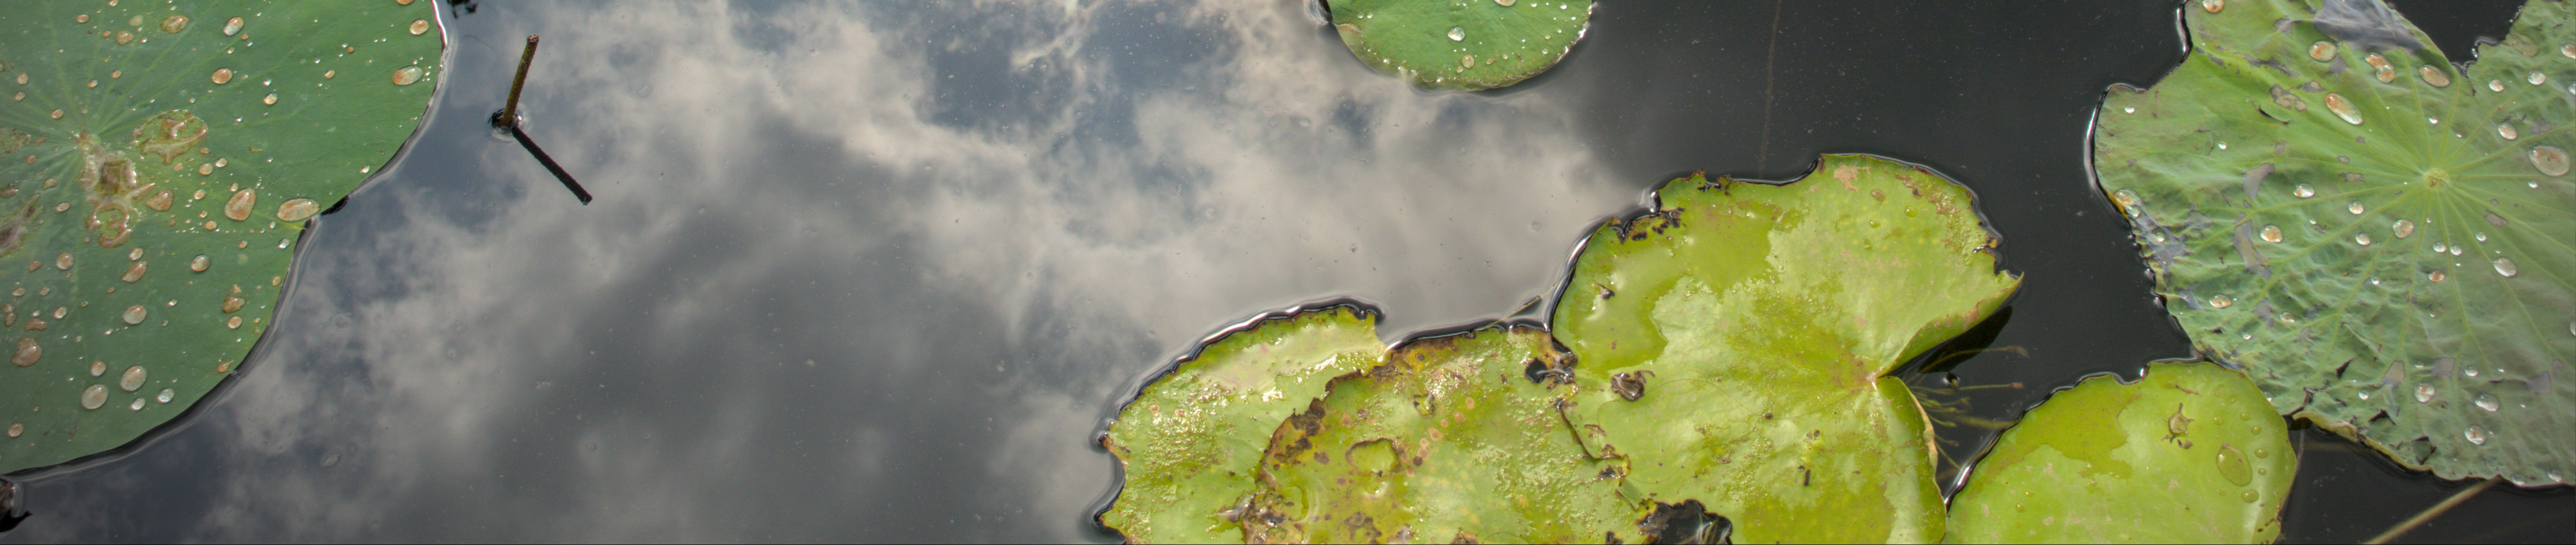
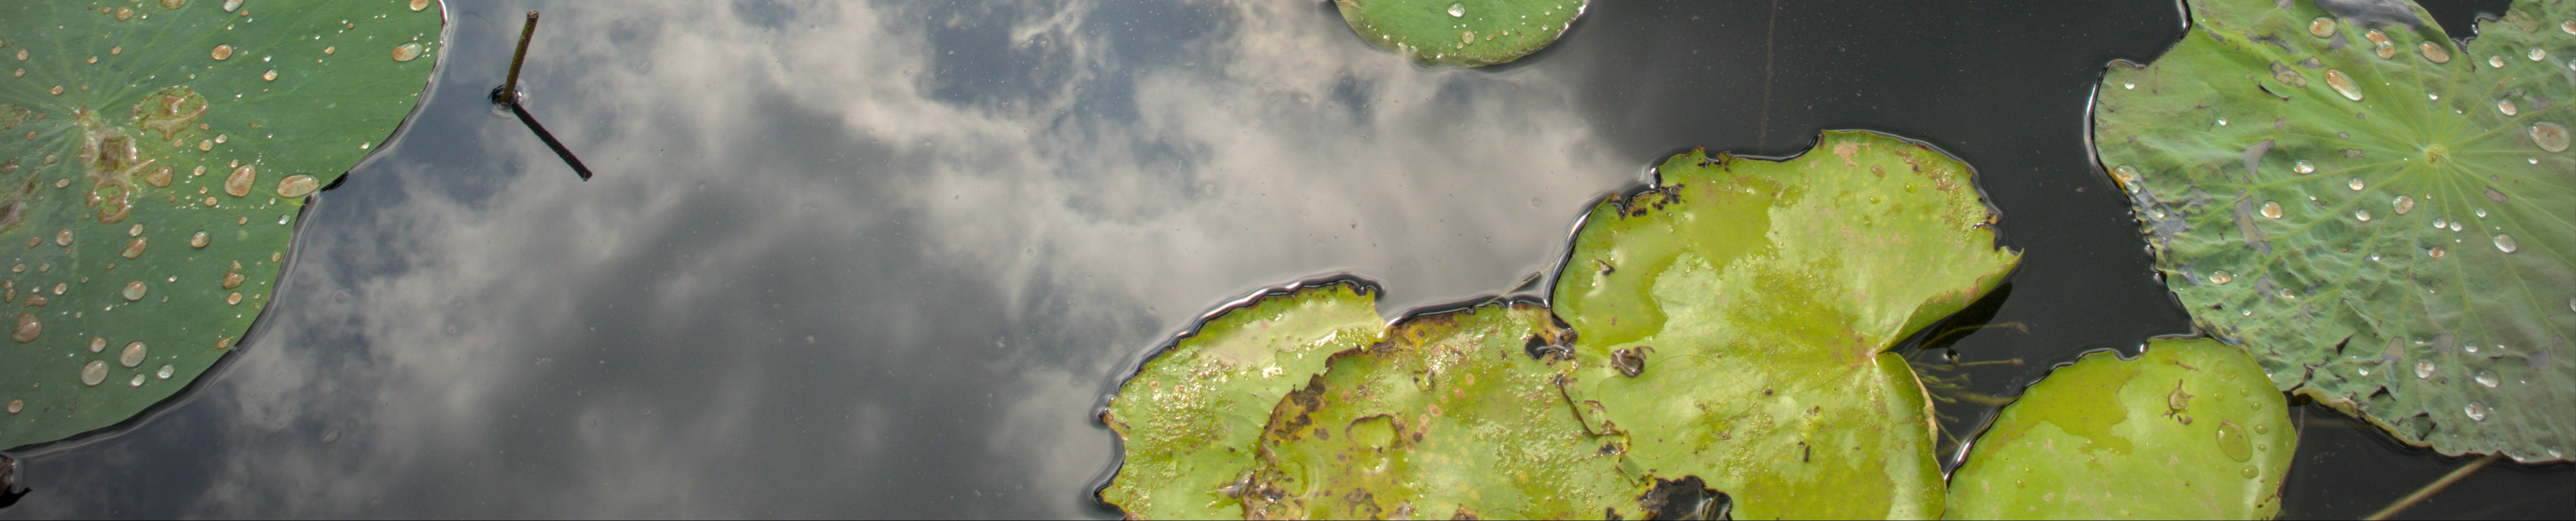
Update: contact box and about page

diff --git a/contact.html b/contact.html
@@ -7,14 +7,34 @@
     <link rel="stylesheet" href="styles.css">
     <link href="https://fonts.googleapis.com/css2?family=Work+Sans:wght@400;700&display=swap" rel="stylesheet">
     <style>
+        .contact-page-wrapper {
+            display: flex;
+            gap: 10px;
+            max-width: 1000px;
+            /*margin: 2rem auto;*/
+            max-width: 100%;
+            padding: 0 20px;
+        }
 
-        .contact-container {
-            max-width: 600px;
-            margin: 2rem auto;
+        .contact-photo {
+            flex: 1;
+            max-width: 450px;
+        }
+
+        .contact-photo img {
+            width: 100%;
+            height: auto;
+            border-radius: 0;
+            object-fit: cover;
+            display: block;
+        }
+
+         .contact-container {
+            flex: 1;
+            max-width: none;
+            width: 100%;
             padding: 2rem;
-            background-color: #f9f9f9;
-            border-radius: 8px;
-            box-shadow: 0 2px 10px rgba(0, 0, 0, 0.1);
+            background-color: rgba(199, 219, 191, 0.42);
         }
 
         .contact-form {
@@ -36,6 +56,7 @@
             border: 1px solid #ccc;
             border-radius: 4px;
             font-family: 'Work Sans', sans-serif;
+            box-sizing: border-box; /* Ensures padding doesn't break the layout */
         }
 
         .contact-form textarea {
@@ -44,7 +65,7 @@
         }
 
         .contact-form button {
-            background-color: #91bb86;
+            background-color: #75B071;
             color: white;
             border: none;
             padding: 0.75rem 1.5rem;
@@ -58,16 +79,32 @@
         .contact-form button:hover {
             background-color: #555;
         }
+
+/* Mobile version */
         
+    @media (max-width: 768px) {
+        .contact-page-wrapper {
+            flex-direction: column-reverse; /* Form goes on top, photo on bottom on mobile */
+            padding: 0 20px; /* Aligns both elements nicely with the screen edges */
+        }
+
+        .contact-photo, .contact-container {
+            max-width: 100%;
+            width: 100%; /* Forces both to span the exact same full width */
+            box-sizing: border-box; /* Ensures padding doesn't push the container wider than 100% */
+        }
+
+        .contact-container {
+            padding: 1.5rem; /* Slightly reduced padding so it looks balanced on smaller screens */
+        }
+    }
     </style>
 </head>
 <body>
     <div class="container">
         <header>
             <div class="header-content">
-                <h1>
-                CLARA M
-                </h1>
+                <h1>CLARA M</h1>
                 
                 <nav>
                     <ul>
@@ -80,22 +117,30 @@
         </header>
         
         <main>
-            <div class="contact-container">
-                <form class="contact-form" action="https://formspree.io/f/xzzpbvbo" method="POST">
-                    <div>
-                        <label for="name">Name:</label>
-                        <input type="text" id="name" name="name" required>
-                    </div>
-                    <div>
-                        <label for="email">Email:</label>
-                        <input type="email" id="email" name="_replyto" required>
-                    </div>
-                    <div>
-                        <label for="message">Message:</label>
-                        <textarea id="message" name="message" required></textarea>
-                    </div>
-                    <button type="submit">Send</button>
-                </form>
+            <div class="contact-page-wrapper">
+                
+                <div class="contact-photo">
+                    <img src="images/contact/contact.jpg" alt="Clara Marincowitz Photography">
+                </div>
+
+                <div class="contact-container">
+                    <form class="contact-form" action="https://formspree.io/f/xzzpbvbo" method="POST">
+                        <div>
+                            <label for="name">Name:</label>
+                            <input type="text" id="name" name="name" required>
+                        </div>
+                        <div>
+                            <label for="email">Email:</label>
+                            <input type="email" id="email" name="_replyto" required>
+                        </div>
+                        <div>
+                            <label for="message">Message:</label>
+                            <textarea id="message" name="message" required></textarea>
+                        </div>
+                        <button type="submit">Send</button>
+                    </form>
+                </div>
+
             </div>
         </main>
         

diff --git a/index.html b/index.html
@@ -31,7 +31,10 @@
         
         <main>
             <section id = "banner">
-                    <img src="images/banners/about.jpg" alt="Water Lilies">         
+                <picture>
+                    <source media="(max-width: 768px)" srcset="images/banners/about_mobile.jpg">
+                    <img src="images/banners/about.jpg" alt="Water Lilies">
+                </picture>       
             </section>
             
             <section id="about">
@@ -43,8 +46,11 @@
                                
             </section>
             
-             <section id = "banner2">
-                    <img src="images/banners/about_2.jpg" alt="Water Lilies">         
+            <section id = "banner2">
+                 <picture>
+                    <source media="(max-width: 768px)" srcset="images/banners/about_mobile2.jpg">
+                    <img src="images/banners/about_2.jpg" alt="Water Lilies">
+                </picture>            
             </section>
             
         </main>